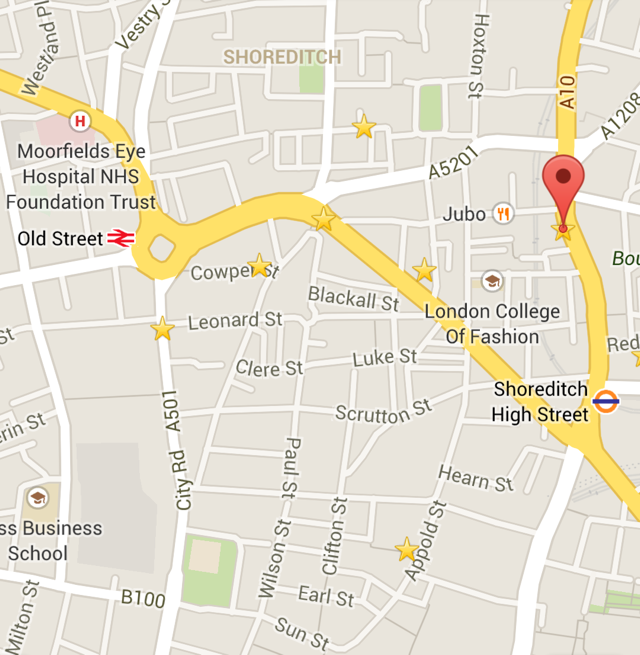
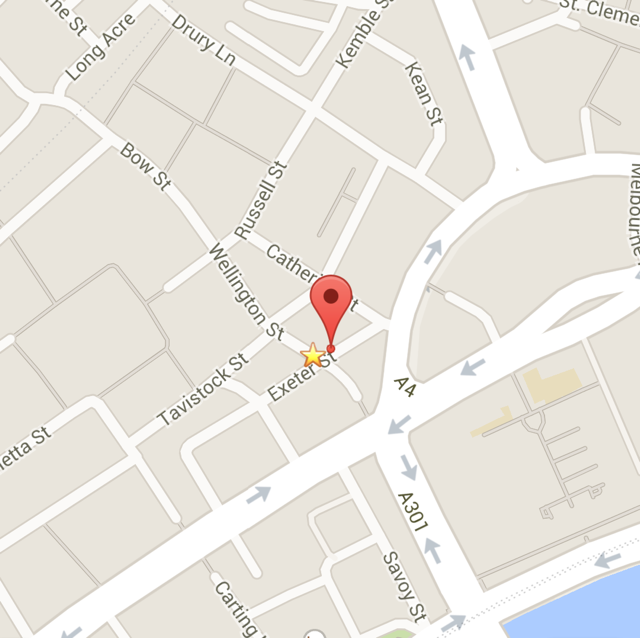
December in Covent Garden

diff --git a/index.html b/index.html
@@ -41,7 +41,7 @@
 
     <p class="intro">It's kind of like <strong>the fun bit after an event, without anything beforehand</strong>. There are <strong>no talks or set agendas</strong>. It's simply a meet other JavaScript people and talk about what they're working on or whatever else they feel like.</p>
 
-    <p class="intro">The next GinJS will be on <strong>Thursday December 5th</strong>. <!-- <strong><a href="https://twitter.com/ginjs_london">Follow @ginjs_london</a></strong> on Twitter for the ticket announcement. -->
+    <p class="intro">The next GinJS will be on <strong>Thursday December 5th</strong> note the <strong>new location</strong> . <!-- <strong><a href="https://twitter.com/ginjs_london">Follow @ginjs_london</a></strong> on Twitter for the ticket announcement. -->
     </p>
 
     <div id="rsvp">
@@ -54,8 +54,8 @@
     <h3><a name="datelocation"></a>Date and Location</h3>
 
     <a href="http://maps.google.com/maps?f=q&source=s_q&hl=en&geocode=&q=barrio%2Beast&ie=UTF8&z=12&t=m&iwloc=near">
-      <p>The next GinJS is at <strong>7:30PM</strong> on: <strong>Thu Dec 5th, 2013</strong> at Barrio East.</p>
-      <p>Nearest tube is <strong>Shoreditch High Street</strong> or <strong>Old Street</strong>.</p>
+      <p>The next GinJS is at <strong>7:30PM</strong> on: <strong>Thu Dec 5th, 2013</strong> at Christopher's Martini Bar in <strong>Covent Garden</strong>.</p>
+      <p>Nearest tube is <strong>Covent Garden</strong>.</p>
       <div class="map"></div>
     </a>
 
